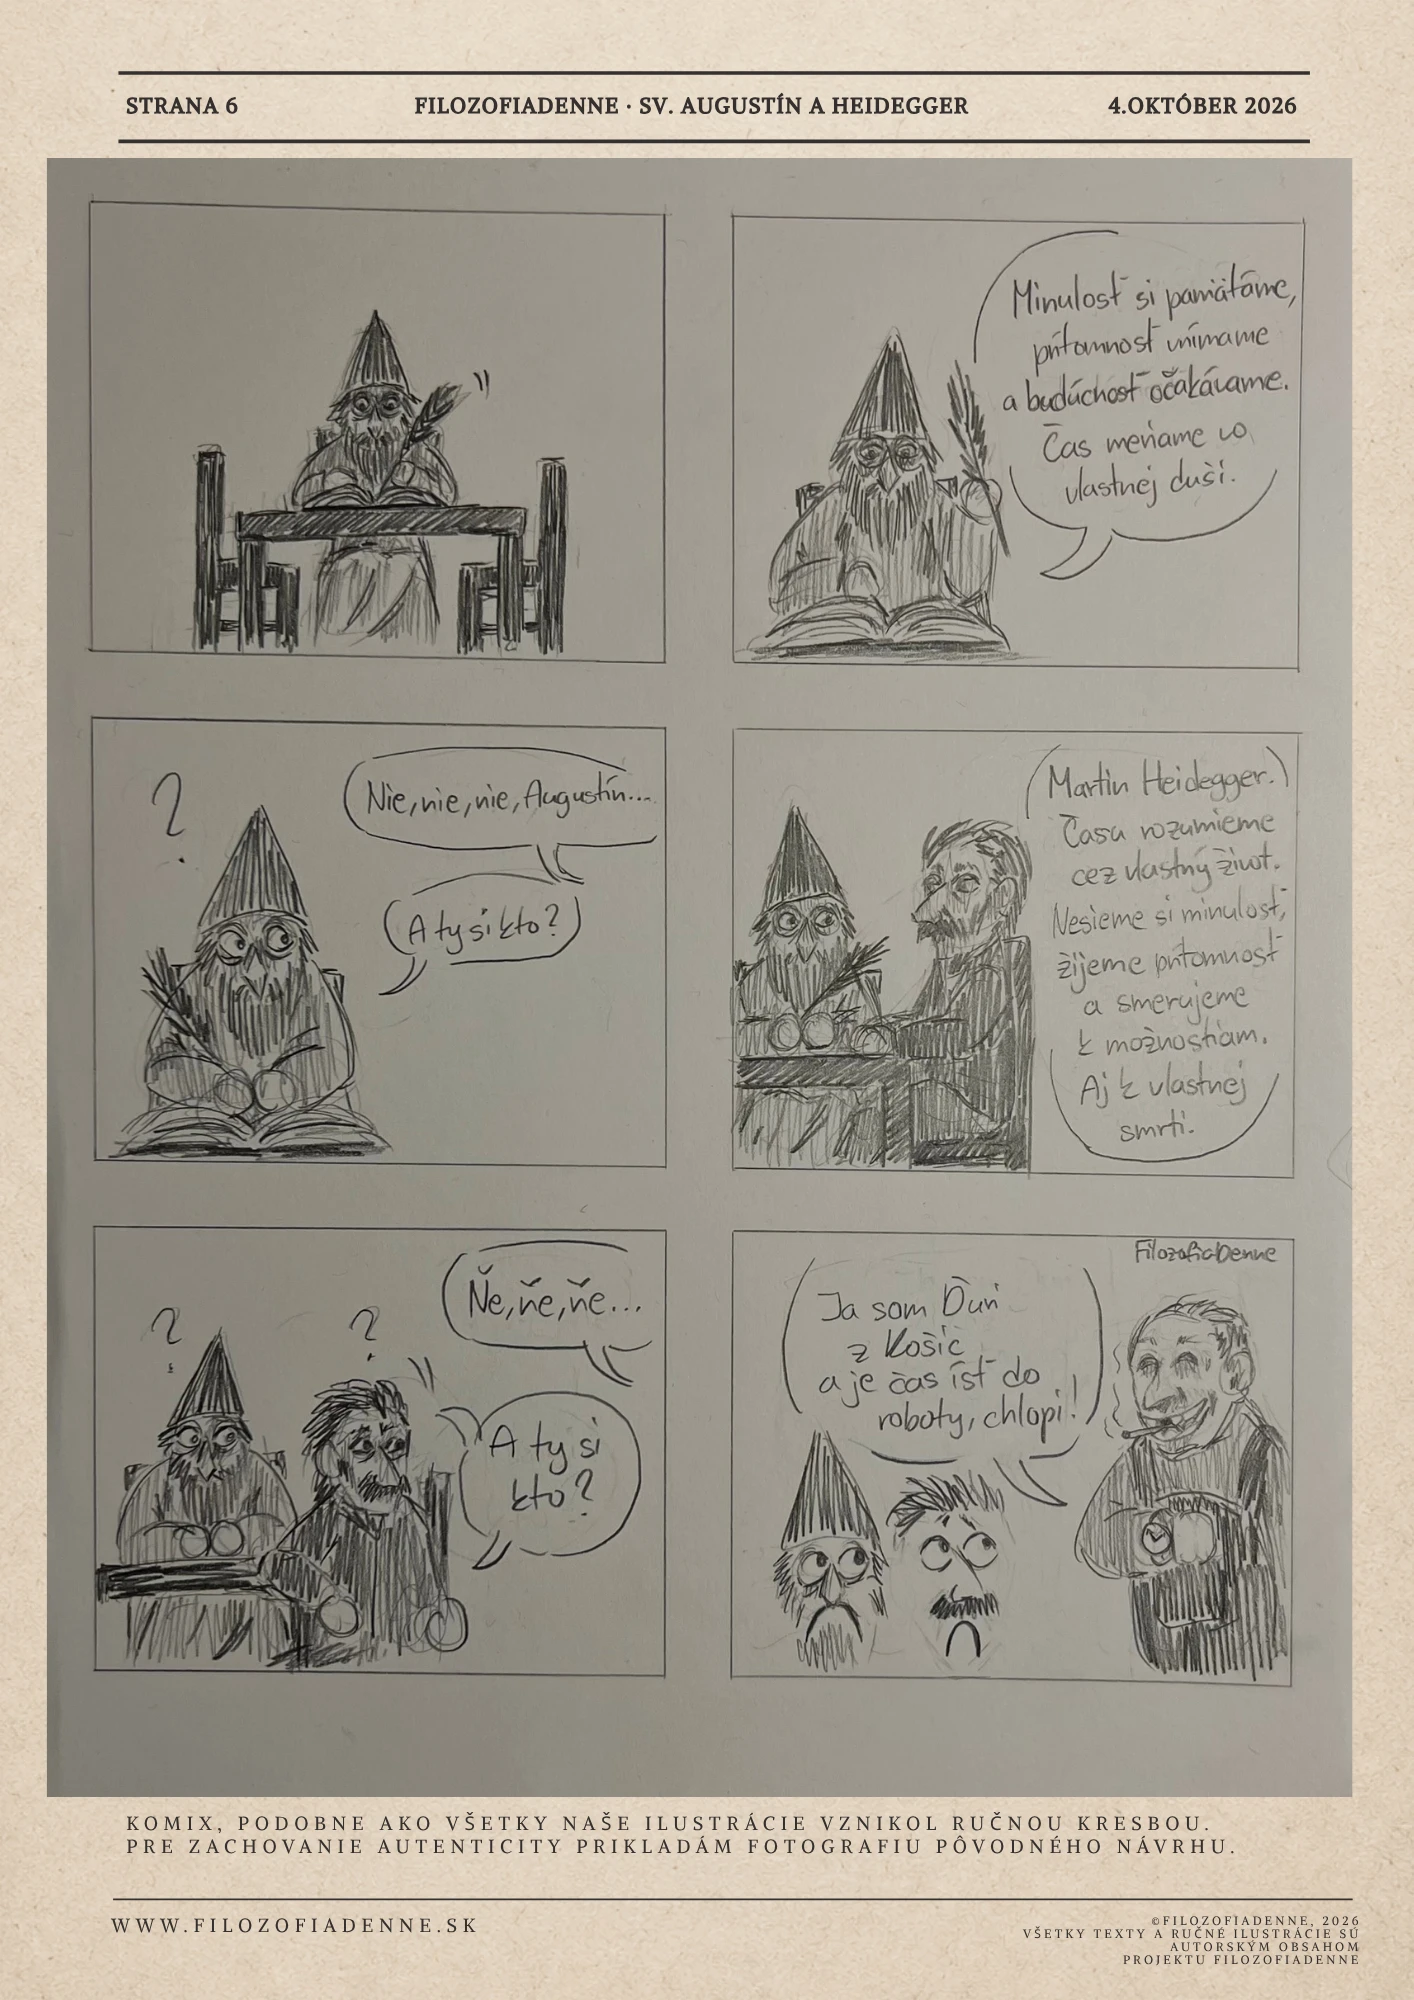
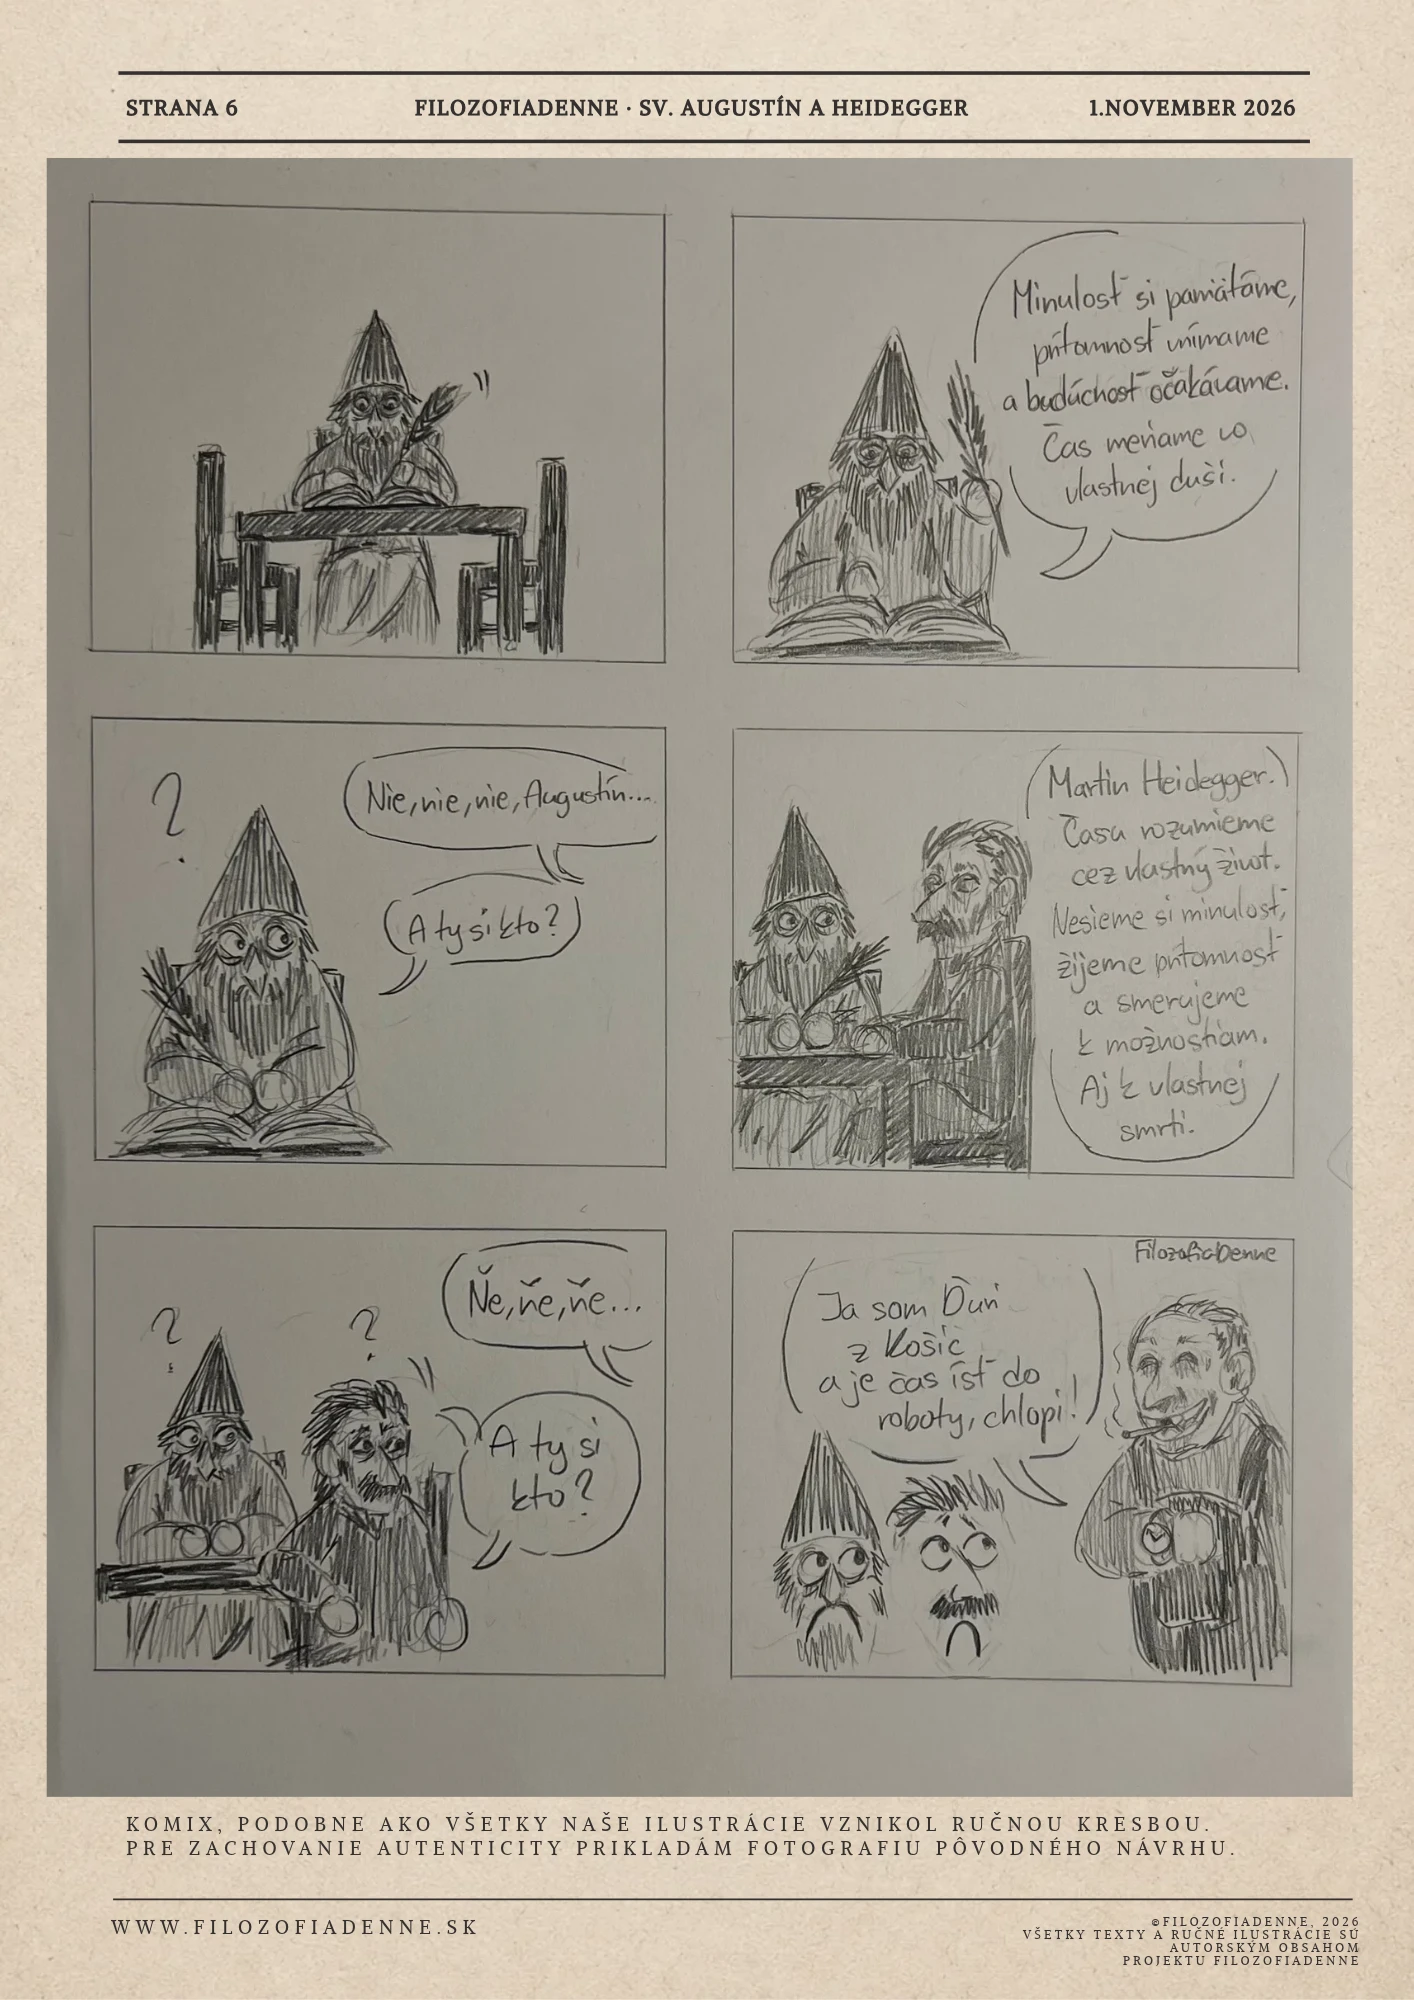
Opraviť dátum na strane 6 čísla 012
- images/tyzden12/12tyzden_6.png: komix s dátumom 1. november 2026
- issue012.html: verzia v odkaze na obrázok, aby sa neukazovala stará cache

diff --git a/issue012.html b/issue012.html
@@ -17,7 +17,7 @@
         <img src="images/tyzden12/12tyzden_3.png" alt="Kým máme čas: keď sa konečnosť zmení na tlak a znamená odkladanie vždy únik?">
         <img src="images/tyzden12/12tyzden_4.png" alt="Kým máme čas: čo sme ochotní nechať tak, Seneca o krátkosti života a otázka, na čo ešte čakáme">
         <img src="images/tyzden12/12tyzden_5.png" alt="FilozofiaDenne č. 012: ďalšie články a rubriky, strana 5">
-        <img src="images/tyzden12/12tyzden_6.png" alt="FilozofiaDenne č. 012: Komix o svätom Augustínovi a Heideggerovi — ako chápeme čas">
+        <img src="images/tyzden12/12tyzden_6.png?v=2" alt="FilozofiaDenne č. 012: Komix o svätom Augustínovi a Heideggerovi — ako chápeme čas">
         <img src="images/tyzden12/12tyzden_7.png" alt="Za oponou reality: múr, ktorý neodpovedá">
         <img src="images/tyzden12/12tyzden_8.png" alt="Stoická rubrika: Stoicizmus — jedna z najviac nepochopených filozofií dneška">
         <img src="images/tyzden12/12tyzden_9.png" alt="O projekte FilozofiaDenne, autorovi Markovi Marcianovi, podpore projektu a filozofickom zväze">
